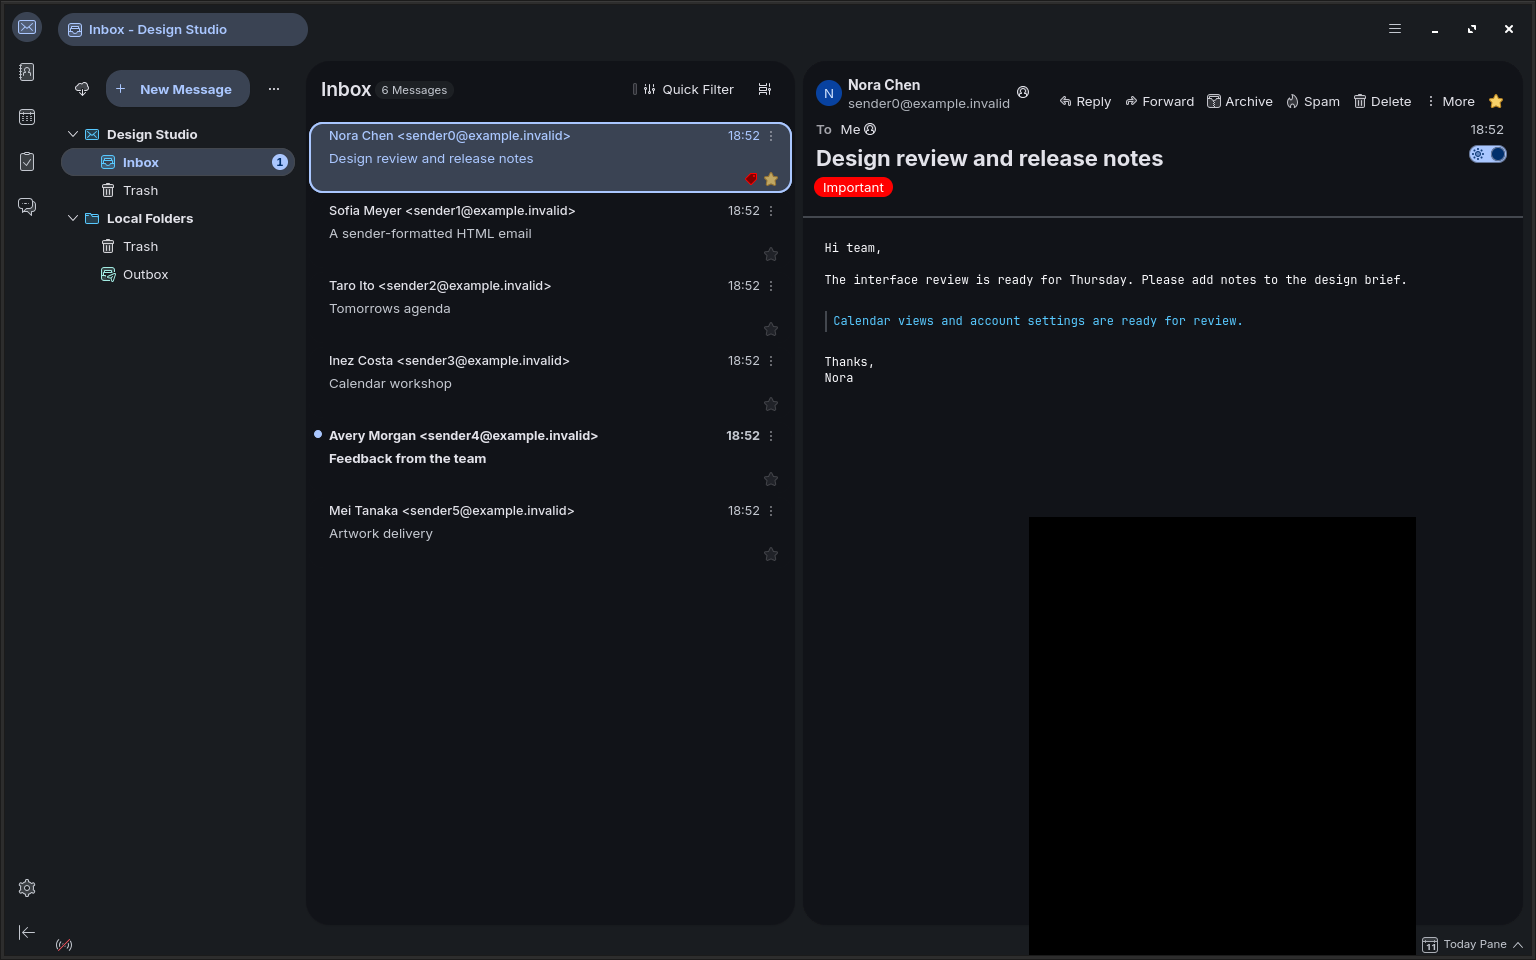
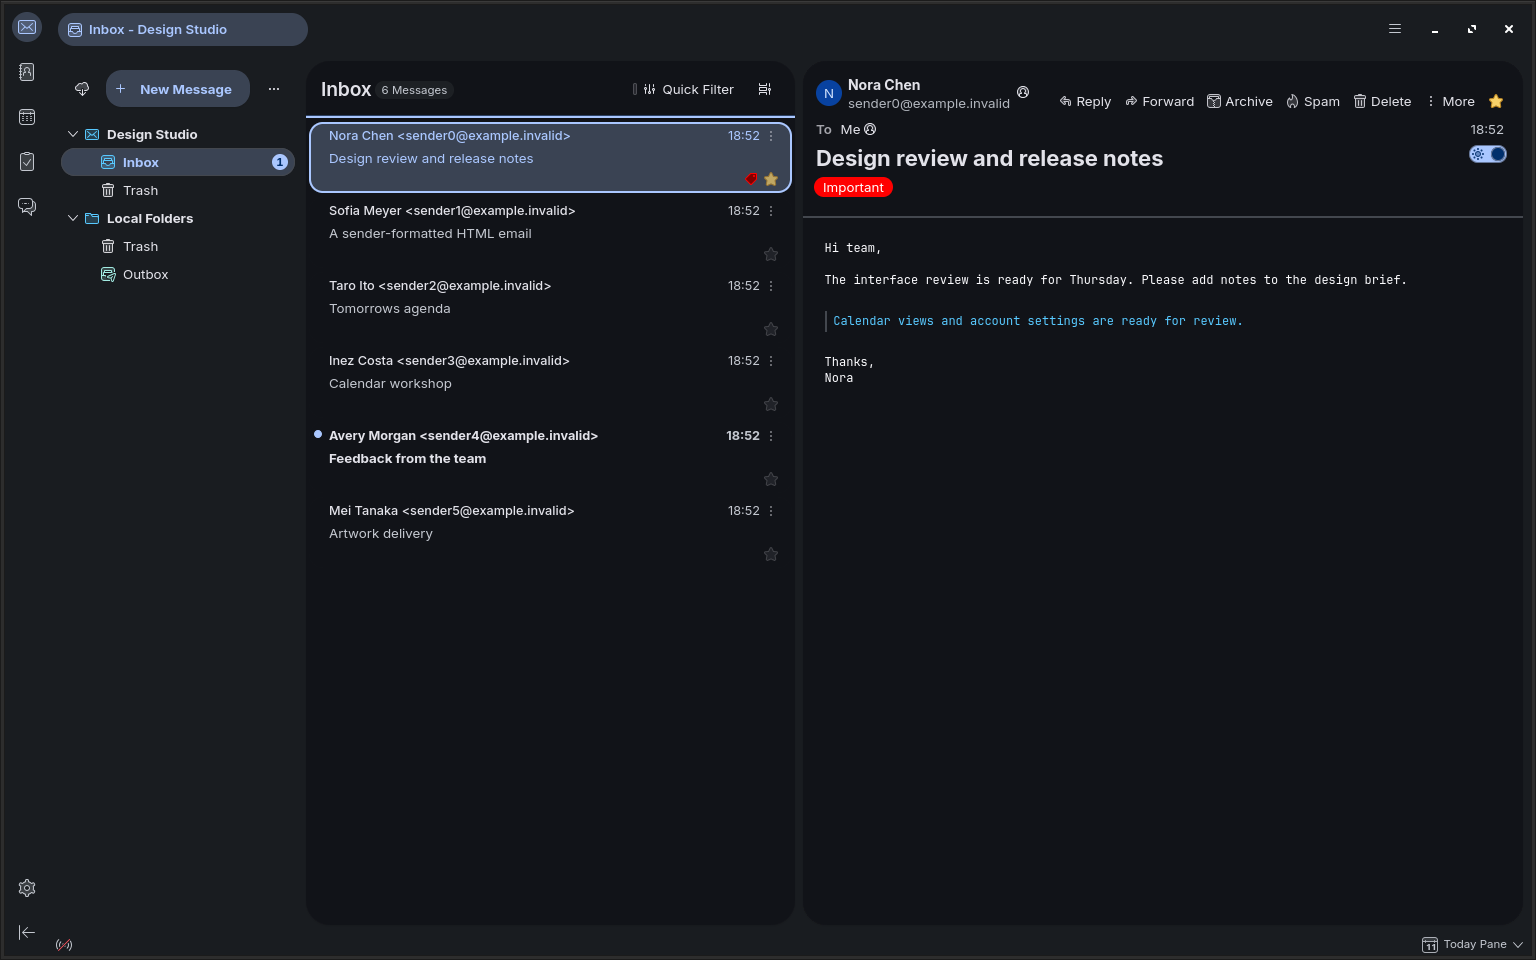
update readme

Changed region(s): [[0.6562, 0.9375, 0.9375, 1.0]]

diff --git a/README.md b/README.md
@@ -2,26 +2,13 @@
 
 MDBird is a Material Design 3 Expressive theme for Thunderbird. Its default palette is inspired by Gmail.
 
-MDBird replaces the top toolbar search box with a button in the sidebar. Click the magnifying glass in the Spaces Toolbar on the left or press `Ctrl+K` (`⌘K` on macOS) to open the MDBird search box. Type a keyword and press Enter to see global search results in a new Thunderbird tab.
-
-![MDBird sidebar search](preview/search.png)
+In windows at least 900 CSS pixels wide, MDBird places the tabs in the top toolbar row to save vertical space. It replaces the toolbar search box with a button in the sidebar. Click the magnifying glass in the Spaces Toolbar on the left or press `Ctrl+K` (`⌘K` on macOS) to open the MDBird search box. Type a keyword and press Enter to see global search results in a new Thunderbird tab.
 
 ![MDBird light theme](preview/light.png)
 
 ![MDBird dark theme](preview/dark.png)
 
-![MDBird application menu](preview/menus-dark.png)
-
-![MDBird message context menu](preview/context-menu-light.png)
-
-![MDBird compose window](preview/compose-dark.png)
-
-## Interface coverage
-
-- **Mail** covers folders, card and table views of the message list, sidebar search, Quick Filter, the message pane, the compose window, and attachments. At window widths of 900 CSS pixels or more, the tab bar shares a row with the unified toolbar.
-- **Spaces** include Address Book, Calendar, Tasks, the Today Pane, and Chat.
-- **Management pages** include Settings, Account Settings, Account Central, the Add-ons Manager, import, downloads, Activity Manager, Message Filters, and Troubleshooting Information.
-- **Popups and controls** include the application menu and its submenus, menu bar drop-downs, context menus, autocomplete, HTML popups, and in-app dialogs.
+![MDBird compose window in the light theme](preview/compose-light.png)
 
 ## Installation
 
@@ -39,7 +26,7 @@ The script locates the default profile. You can specify a profile path and use `
 ./install.sh --profile ~/.thunderbird/xxxxxxxx.default-release --accent violet
 ```
 
-After restarting Thunderbird, open the MDBird Search installation prompt from the application menu in the upper-right corner and select **Enable**. The previews show the vertical layout and Cards View. Light and dark colors follow the default, light, or dark theme selected in Thunderbird.
+After restarting Thunderbird, open the MDBird Search installation prompt from the application menu in the upper-right corner and select **Enable**. Light and dark colors follow the default, light, or dark theme selected in Thunderbird.
 
 To uninstall MDBird, run `./install.sh --uninstall` and restart Thunderbird. See the [installation guide](docs/installation.md) for profile paths, updates, and troubleshooting.
 
